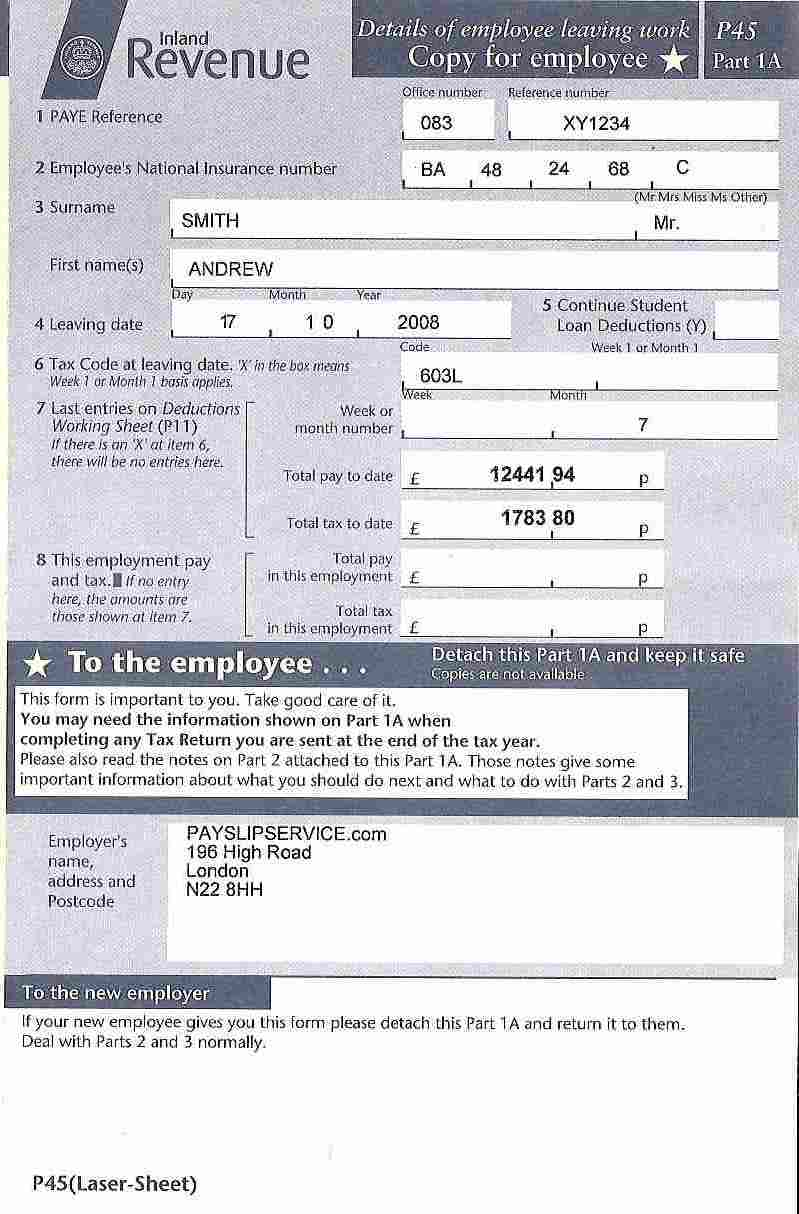
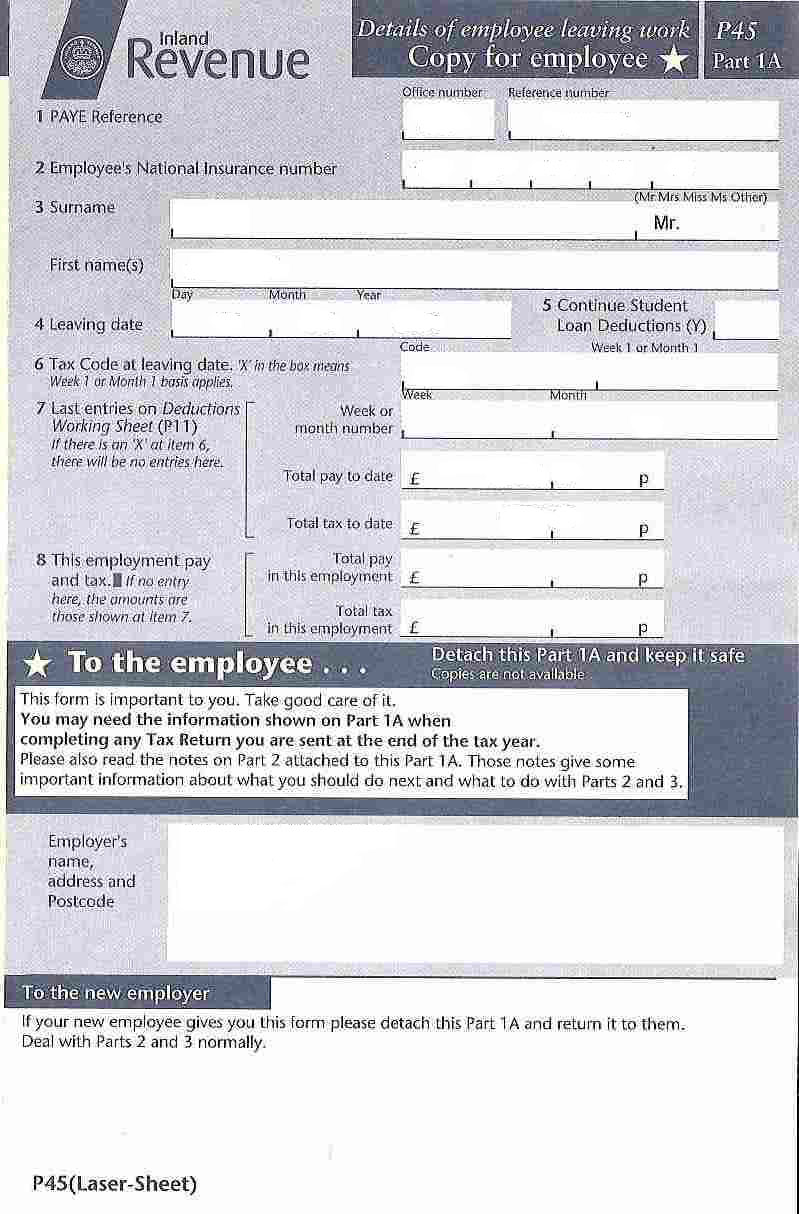
p45 generator

diff --git a/app/controllers/pee_forty_fives_controller.rb b/app/controllers/pee_forty_fives_controller.rb
@@ -1,0 +1,71 @@
+class PeeFortyFivesController < ApplicationController
+
+  def index
+    @p45 = PeeFortyFive.new
+  end
+
+  def generate
+    @p45 = PeeFortyFive.new#(params[:pee_forty_five])
+
+    @p45.reason      = params[:reason]
+    @p45.first_name  = params[:first_name]
+    @p45.last_name   = params[:last_name]
+
+    path = File.join(Rails.root, 'app/assets/images/p45.jpeg')
+    p45 = Magick::ImageList.new(path)
+
+    mark = Magick::Image.new(p45.first.columns, p45.first.rows/2)
+    mark.background_color = 'transparent'
+    p45.background_color = 'transparent'
+
+    text = Magick::Draw.new
+    text.annotate(mark, 0, 0, 0, 0, @p45.reason) {
+        self.gravity = Magick::CenterGravity
+        self.pointsize = 72
+        self.stroke = 'transparent'
+        self.fill = '#FF0000'
+        self.font_weight = 900
+    }
+    mark.rotate!(-45)
+    mark = mark.transparent('white')
+
+    first_name = Magick::Draw.new
+    first_name.annotate(p45, 0, 0, 180, 200, @p45.first_name) {
+      self.gravity = Magick::NorthWestGravity
+      self.pointsize = 32
+      self.stroke = 'transparent'
+      self.fill = '#000000'
+      self.font_weight = 400
+    }
+    last_name = Magick::Draw.new
+    last_name.annotate(p45, 0, 0, 180, 248, @p45.last_name) {
+      self.gravity = Magick::NorthWestGravity
+      self.pointsize = 32
+      self.stroke = 'transparent'
+      self.fill = '#000000'
+      self.font_weight = 400
+    }
+
+
+
+    result = p45.composite(mark, Magick::CenterGravity, Magick::OverCompositeOp)
+    result.background_color = 'transparent'
+
+
+
+
+
+    # p45.write('annotate.jpg')
+    #response.headers["Content-type"] = p45.mime_type
+    tmp = File.join(Rails.root, 'tmp/p45.jpg')
+    result.write(tmp)
+    #send_file tmp, :filename => 'new.p45.jpg', :content_type => "image/jpeg"
+    
+    #response.headers['Content-Type'] = 'image/jpeg'
+    #response.headers['Content-Disposition'] = 'inline'
+    #render :text => open(tmp, "rb").read
+    send_data File.read(tmp), :filename => 'p45.jpg', :type => 'image/jpeg', :disposition => 'inline', :content_length => tmp.size
+     
+    #render :index
+  end
+end

diff --git a/app/models/pee_forty_five.rb b/app/models/pee_forty_five.rb
@@ -1,0 +1,20 @@
+class PeeFortyFive
+
+  extend  ActiveModel::Naming
+  include ActiveModel::AttributeMethods
+  include ActiveModel::Conversion
+  include ActiveModel::Serialization
+
+  attr_accessor :reason, :first_name, :last_name
+
+  def initialize(params={})
+    params.each do |k,v|
+      send("#{k}=", v)
+    end
+  end
+
+  def persisted?
+    false
+  end
+
+end

diff --git a/config/routes.rb b/config/routes.rb
@@ -1,6 +1,10 @@
 P45::Application.routes.draw do
 
-  resources :p45
+  resources :pee_forty_fives do
+    collection do
+      get :generate
+    end
+  end
   # The priority is based upon order of creation:
   # first created -> highest priority.
 
